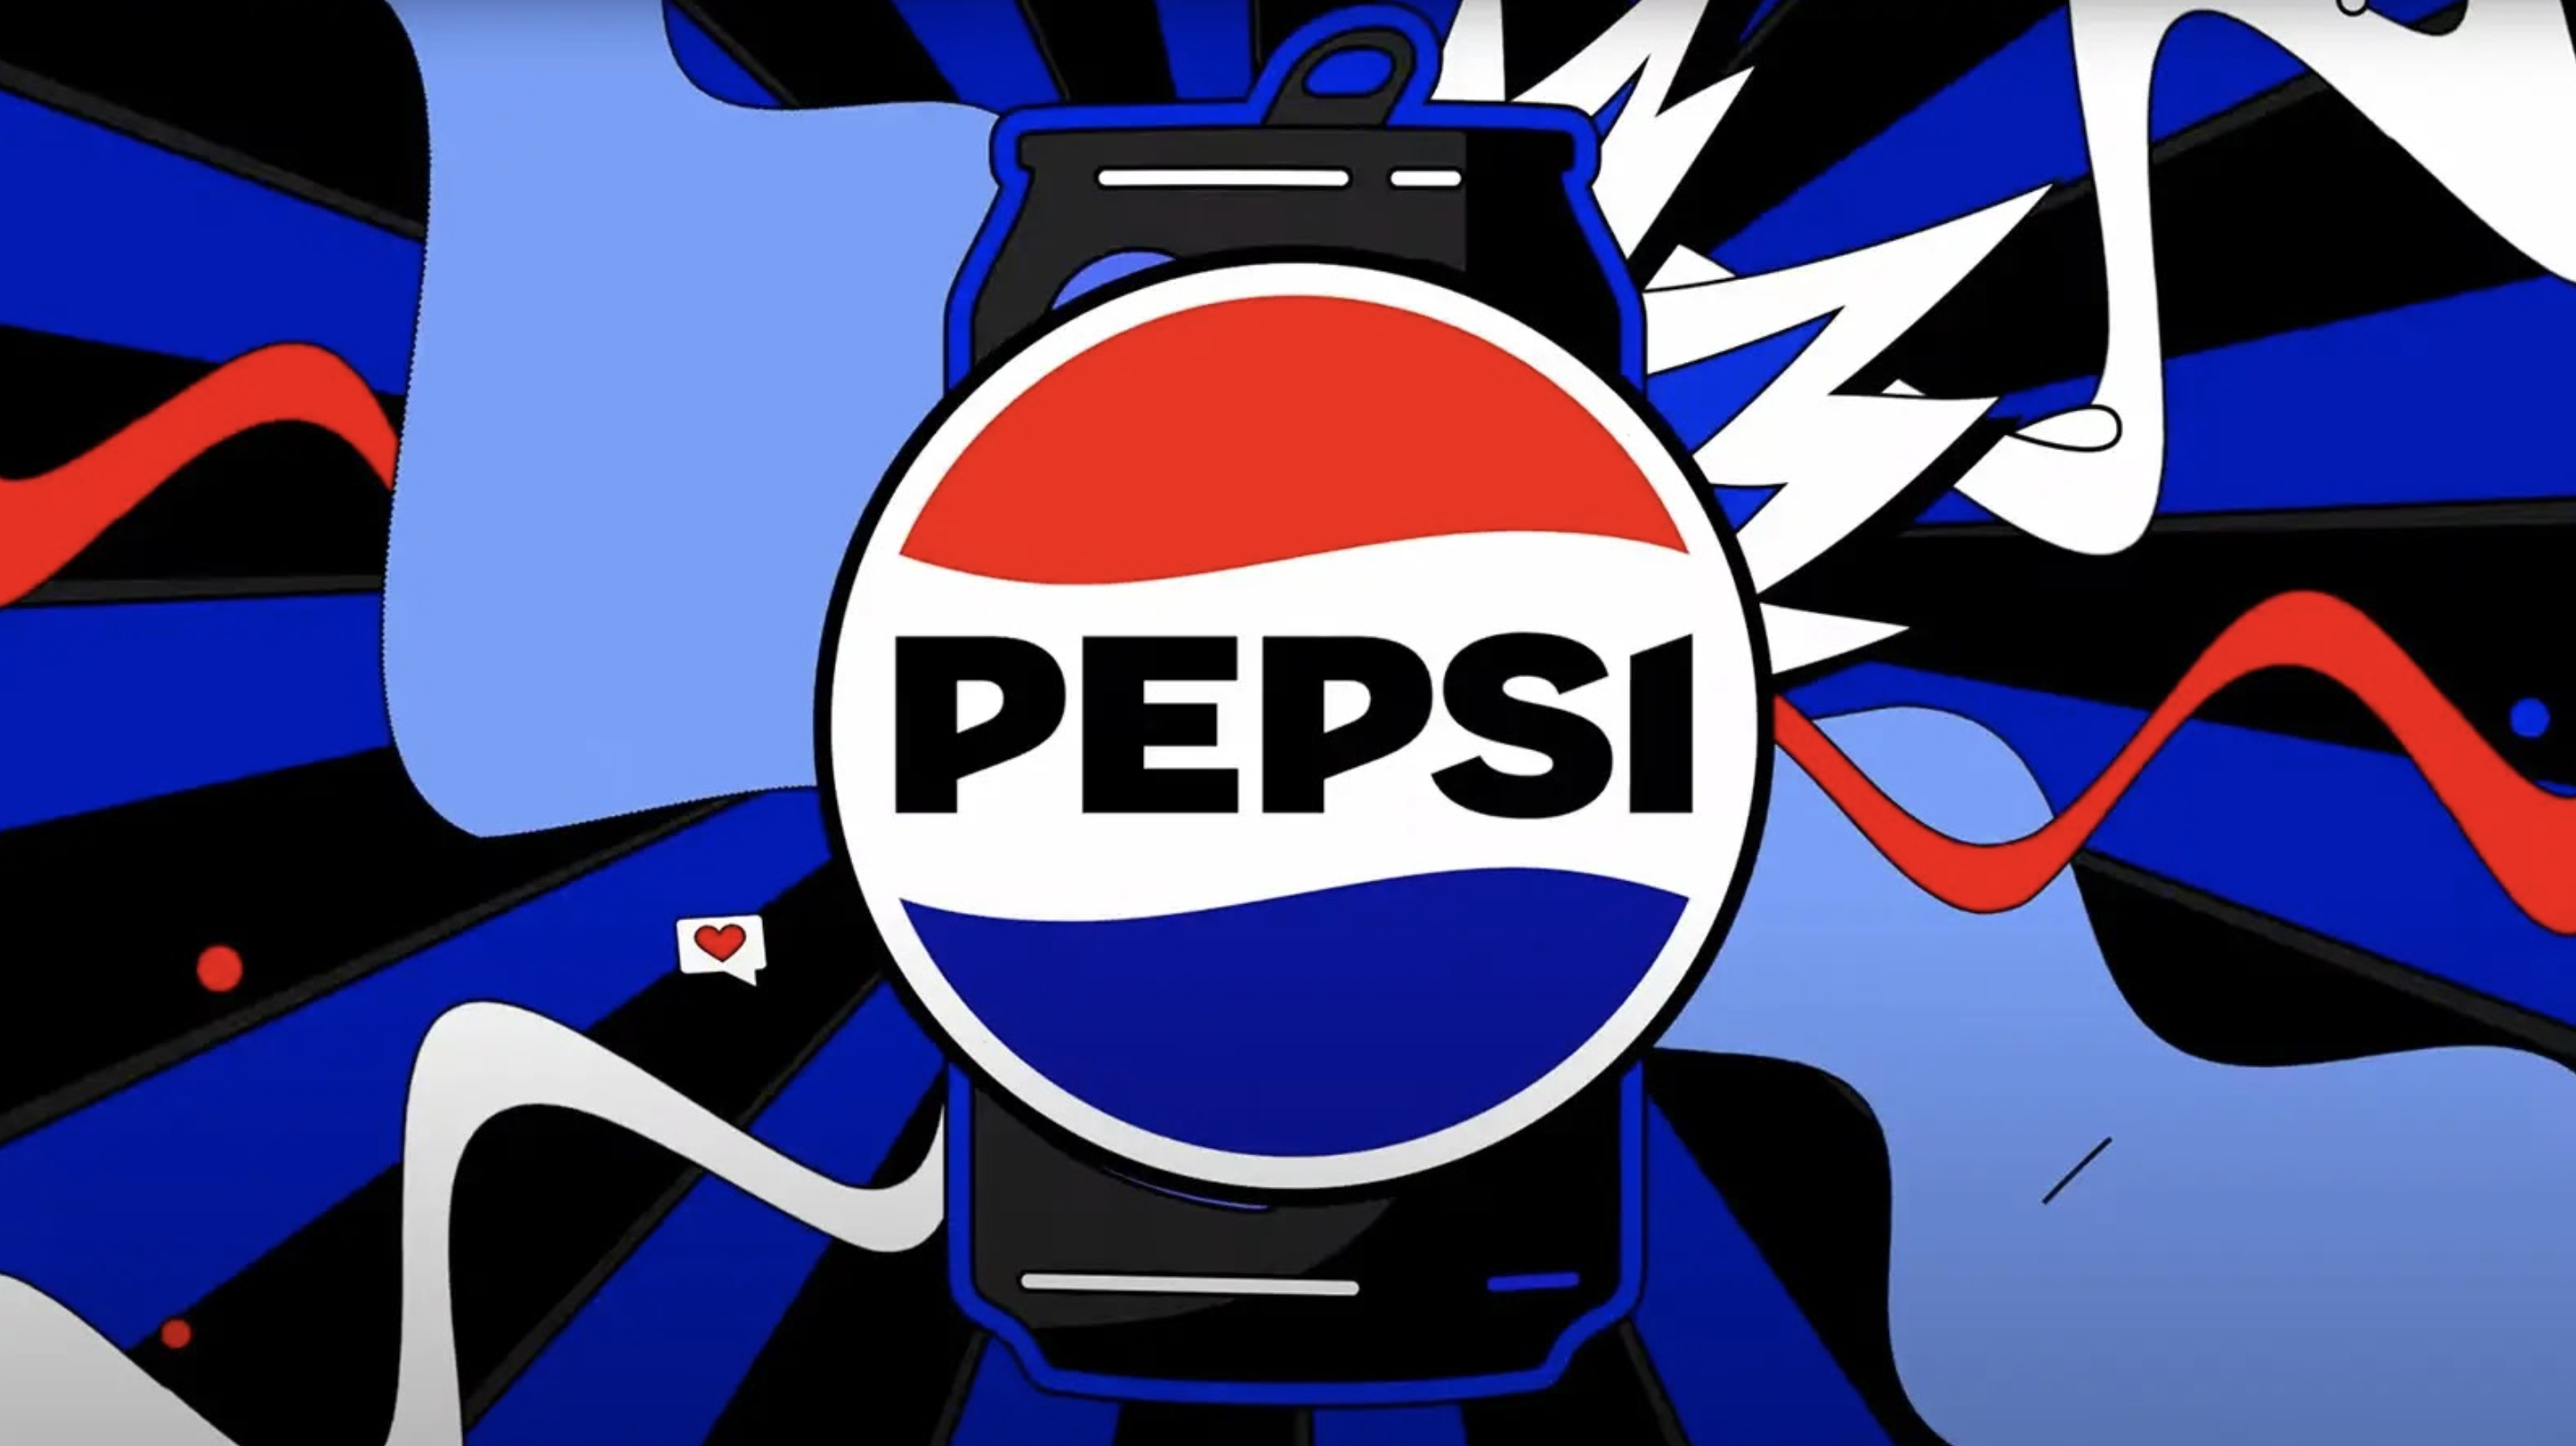
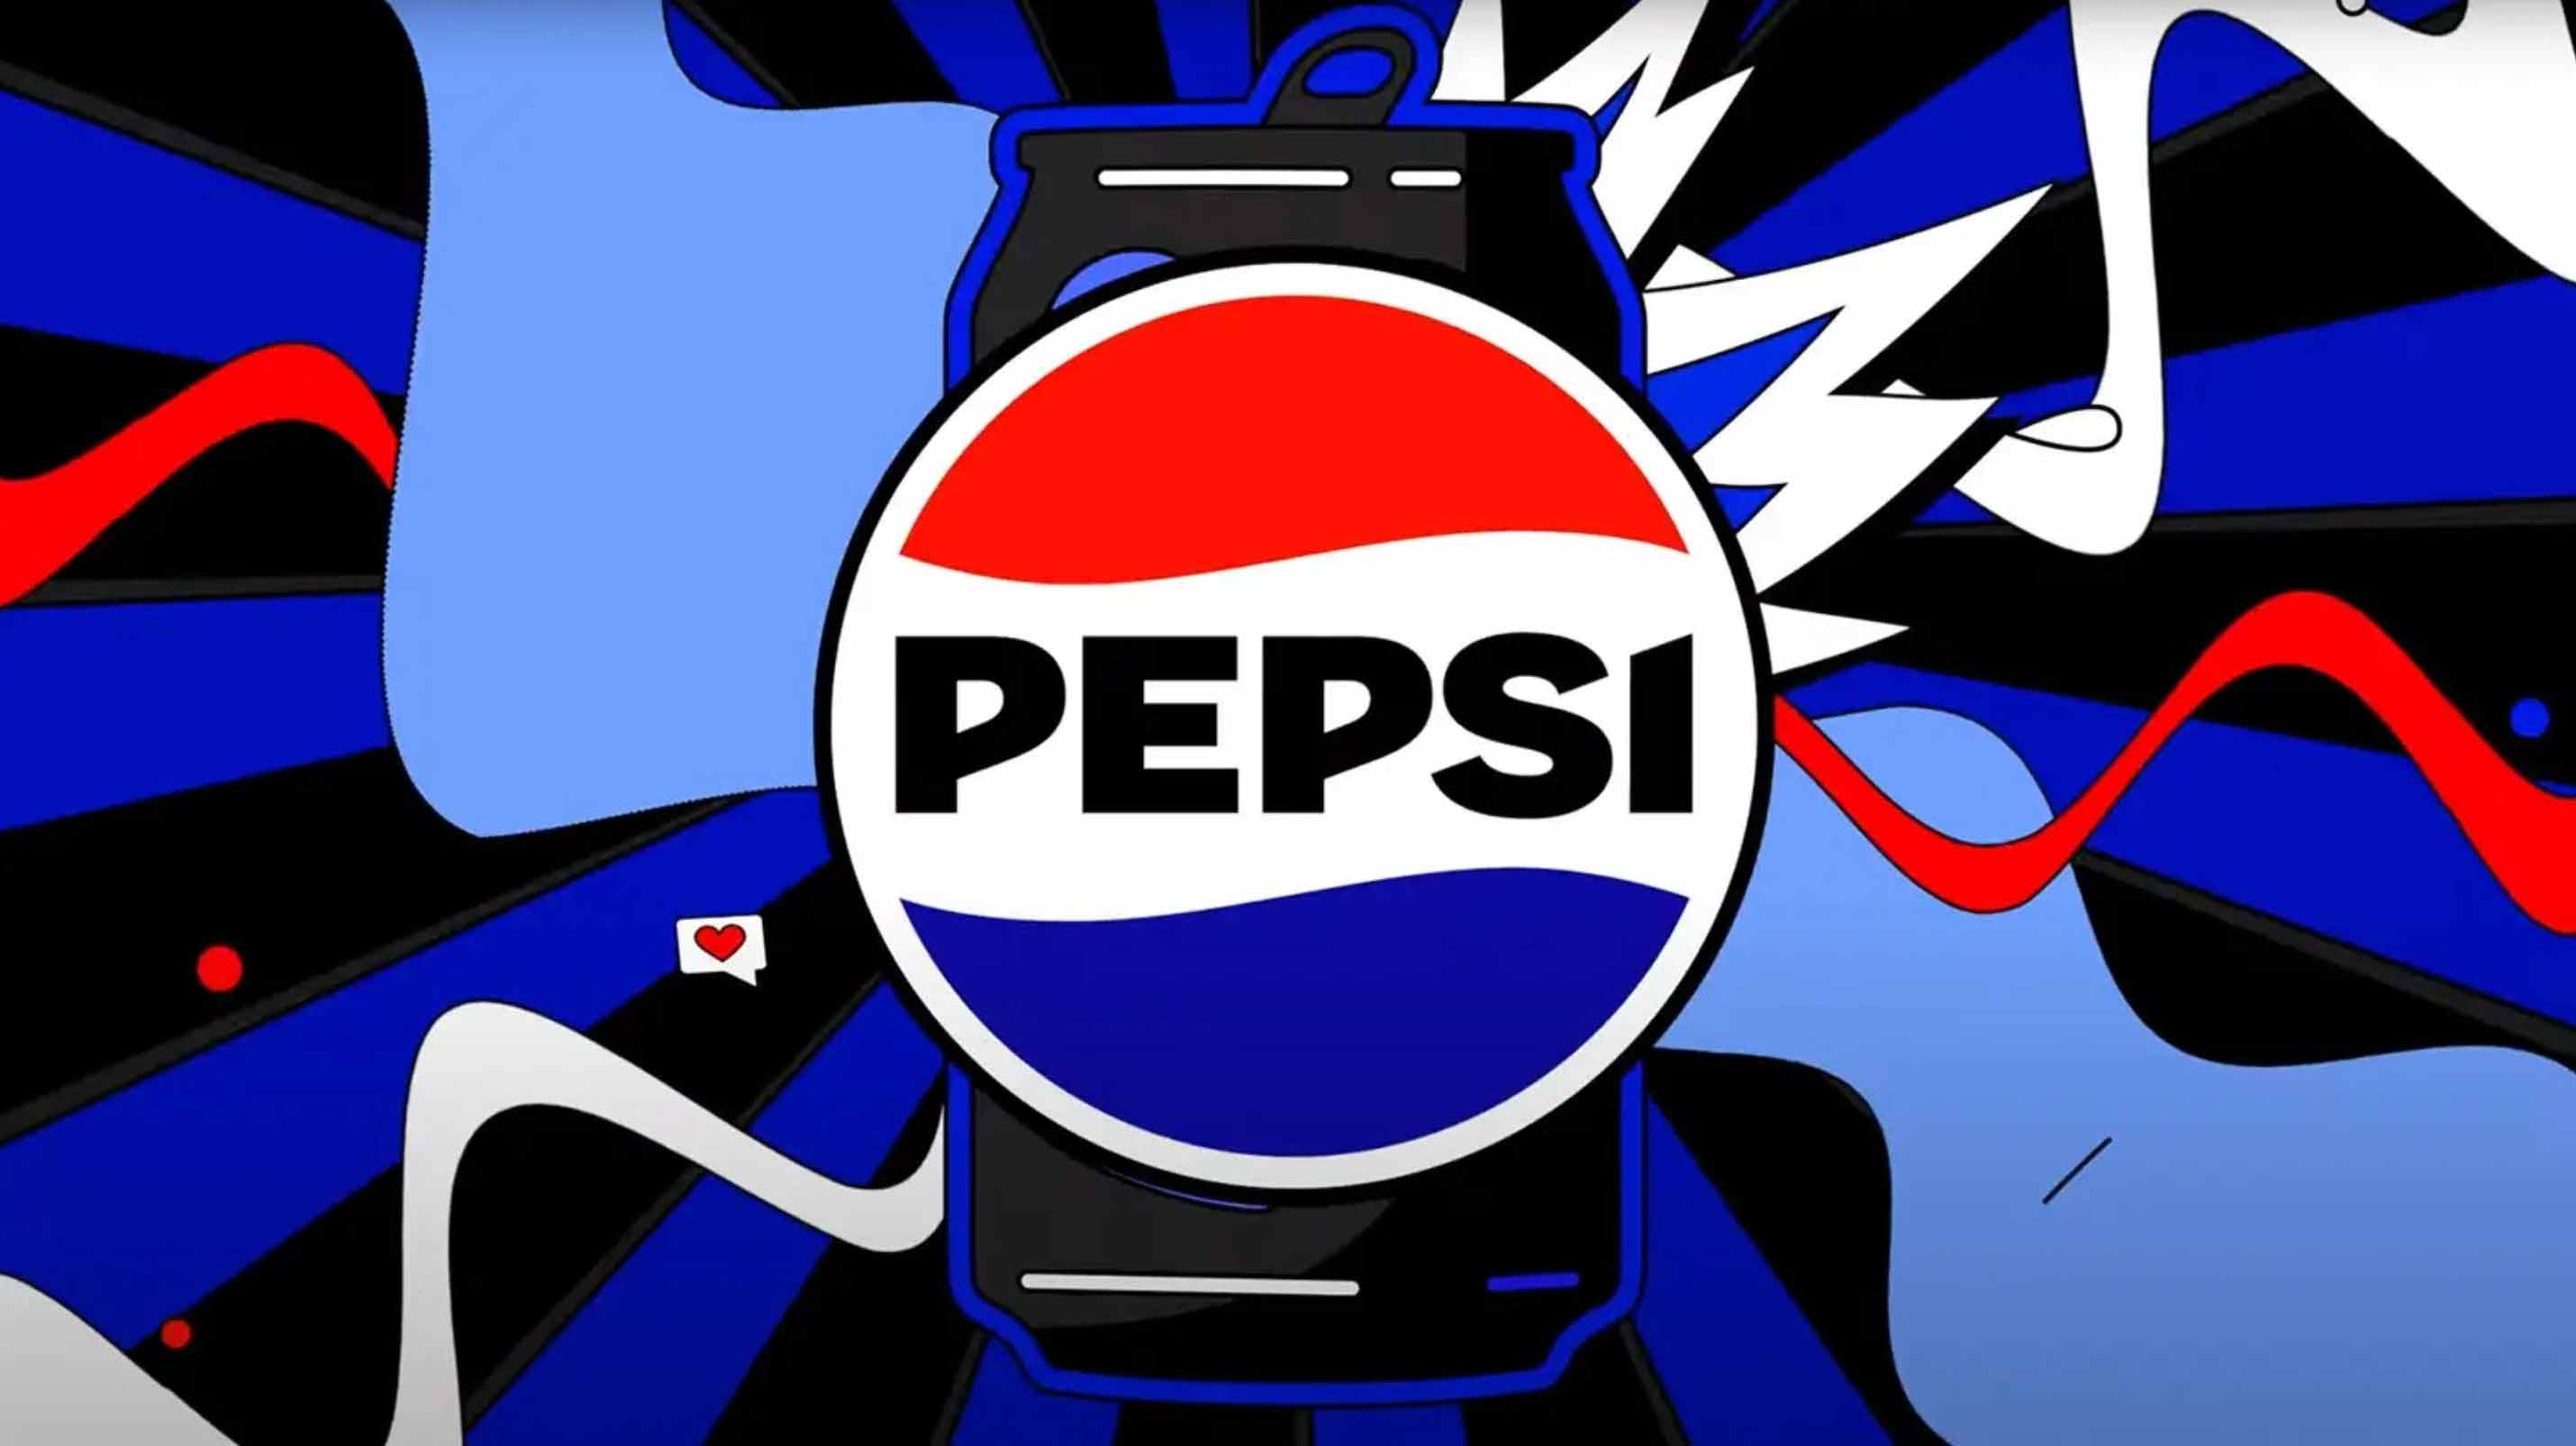
cambio21

diff --git a/css/index.css b/css/index.css
@@ -86,7 +86,7 @@ body{
 .noticiasact.dos{
 	grid-column: 3/4;
 	grid-row: 1/2;
-	background-image: url("../noticias/n2/1.png");
+	background-image: url("../noticias/n2/1.jpg");
 }
 .noticiasact.tres{
 	grid-column: 1/2;
